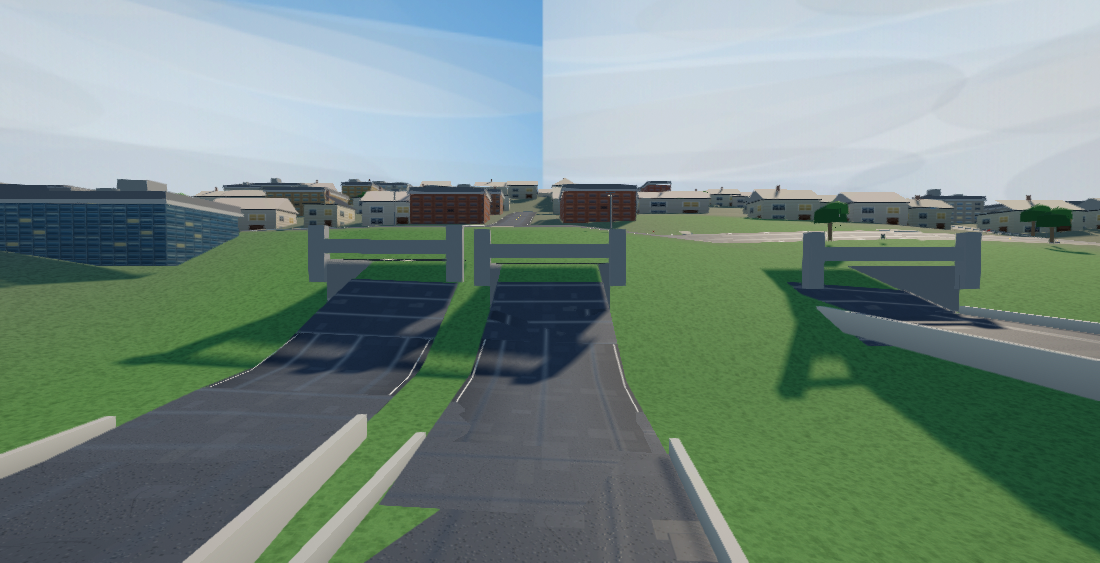
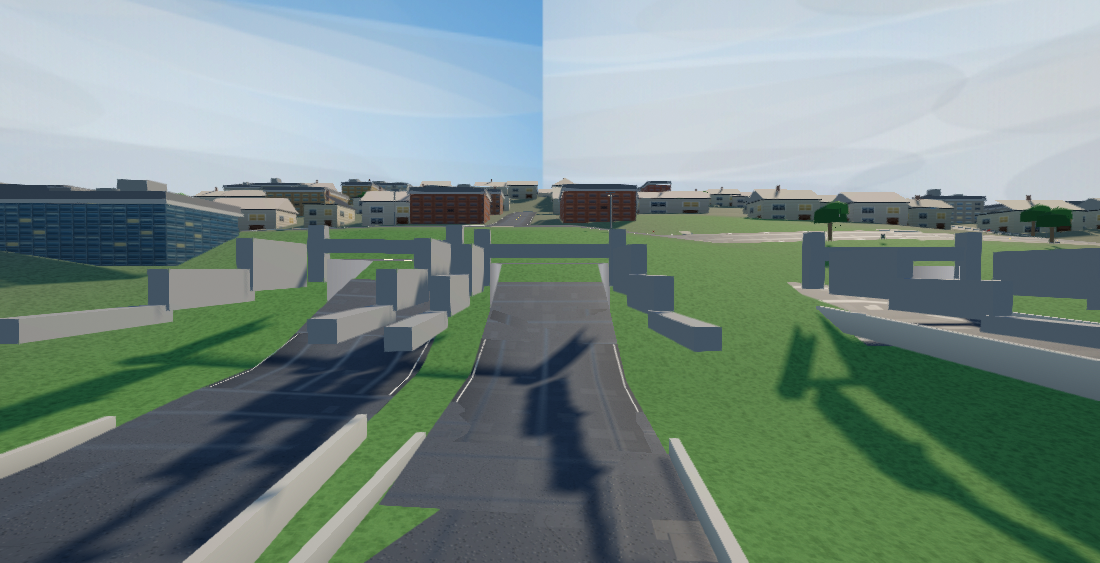
Auto v57: lit tunnels, manual-only graphics that stick, portrait badge, altitude haze
Four things, one release:

**The SR-99 interior was invisible.** Sun-lit materials inside a bore sit
in the shadow map's darkness and render near-black -- a glow line in a
void. The whole interior is now drawn in the unlit glow material with its
light baked into vertex colours: lamp pools every 18 m, walls lighter than
the ceiling, centreline dashes, the warm strip overhead. It owes the sun
nothing and reads identically at any depth. Portals grew approach trenches
-- tapering wing walls from the frame back along the cut -- so the mouth
reads as a cut into the hill rather than a doorway standing in a field.

**Graphics quality is manual only, and it persists.** The adaptive ladder
is deleted by request: it watched fps with no idea why a frame was slow,
demoted players after warps (the streaming burst is CPU a lower tier cannot
help), and overrode deliberate choices. The pause-menu picker is the single
authority, saved to localStorage and restored at boot.

**The portrait version badge ships this time.** PR #362 built it and was
never merged -- the merge list said otherwise and nobody could tell,
which is also why every auto PR title now carries its version (rule added
to CLAUDE.md): a title makes a missing bump or a stranded feature visible.

**Flying haze.** The streaming rings -- massing at 1.6 km, detail at 800 m
-- read as a crawling boundary from altitude, and no draw budget pushes
them past a 6 km sightline. Fog density now scales with height above
[…]

diff --git a/apps/auto/src/world.js b/apps/auto/src/world.js
@@ -948,35 +948,49 @@ export class World {
     const hw = e.hw;
     const px = -e.dz, pz = e.dx;
     const WALL = 5.4, DECK = 0.3;
-    const wallCol = [0.34, 0.35, 0.37];
-    const soffit = [0.24, 0.25, 0.27];
-    const kerbCol = [0.45, 0.46, 0.48];
     const ay = a.y + DECK, by = b.y + DECK;
     const P = (t, o) => [lerp(a.x, b.x, t) + px * o, lerp(a.z, b.z, t) + pz * o];
     const Y = (t) => lerp(ay, by, t);
-    // deck
-    const [a0x, a0z] = P(0, hw), [a1x, a1z] = P(0, -hw);
-    const [b0x, b0z] = P(1, hw), [b1x, b1z] = P(1, -hw);
-    const v1 = e.len / ROAD_TILE, u1 = (hw * 2) / ROAD_TILE;
-    road.quad([a0x, ay, a0z], [a1x, ay, a1z], [b1x, by, b1z], [b0x, by, b0z],
-      [0, 1, 0], [0, 0, u1, 0, u1, v1, 0, v1], [1, 1, 1]);
-    // walls: inner faces, lofted between the same corners
-    for (const sd of [1, -1]) {
-      const [w0x, w0z] = P(0, hw * sd), [w1x, w1z] = P(1, hw * sd);
-      flat.quad(
-        [w0x, Y(0), w0z], [w1x, Y(1), w1z],
-        [w1x, Y(1) + WALL, w1z], [w0x, Y(0) + WALL, w0z],
-        [-px * sd, 0, -pz * sd], ZERO_UV, wallCol);
-      // low kerb strip so the wall base reads in headlightless gloom
-      flat.quad(
-        [w0x, Y(0), w0z], [w1x, Y(1), w1z],
-        [w1x, Y(1) + 0.8, w1z], [w0x, Y(0) + 0.8, w0z],
-        [-px * sd, 0, -pz * sd], ZERO_UV, kerbCol);
+    // The INTERIOR is drawn ENTIRELY in the unlit glow material, with its
+    // light baked into vertex colours: bright pools under the lamps fading
+    // between them, walls lighter than the ceiling, a warm strip overhead.
+    // MeshBasicMaterial owes the sun nothing, so the bore reads the same at
+    // any depth, which is what a lit tunnel does.
+    const pool = (t) => 0.72 + 0.28 * Math.cos((lerp(0, e.len, t) / 18) * Math.PI * 2);
+    const seg = Math.max(2, Math.ceil(e.len / 9));
+    for (let i = 0; i < seg; i++) {
+      const t0 = i / seg, t1 = (i + 1) / seg;
+      const l0 = pool(t0), l1 = pool(t1);
+      const deckC0 = [0.34 * l0, 0.34 * l0, 0.36 * l0];
+      const deckC1 = [0.34 * l1, 0.34 * l1, 0.36 * l1];
+      const [a0x, a0z] = P(t0, hw), [a1x, a1z] = P(t0, -hw);
+      const [b0x, b0z] = P(t1, hw), [b1x, b1z] = P(t1, -hw);
+      glow.quad([a0x, Y(t0), a0z], [a1x, Y(t0), a1z], [b1x, Y(t1), b1z], [b0x, Y(t1), b0z],
+        [0, 1, 0], ZERO_UV, [deckC0, deckC0, deckC1, deckC1]);
+      // centreline dash, every other segment
+      if (i % 2 === 0) {
+        const [c0x, c0z] = P(t0, 0.10), [c1x, c1z] = P(t0 + (t1 - t0) * 0.55, 0.10);
+        const [d0x, d0z] = P(t0, -0.10), [d1x, d1z] = P(t0 + (t1 - t0) * 0.55, -0.10);
+        glow.quad([c0x, Y(t0) + 0.02, c0z], [d0x, Y(t0) + 0.02, d0z],
+          [d1x, Y(t1) + 0.02, d1z], [c1x, Y(t1) + 0.02, c1z],
+          [0, 1, 0], ZERO_UV, [0.85, 0.8, 0.55]);
+      }
+      for (const sd of [1, -1]) {
+        const [w0x, w0z] = P(t0, hw * sd), [w1x, w1z] = P(t1, hw * sd);
+        const wc0 = [0.42 * l0, 0.43 * l0, 0.45 * l0];
+        const wc1 = [0.42 * l1, 0.43 * l1, 0.45 * l1];
+        glow.quad(
+          [w0x, Y(t0), w0z], [w1x, Y(t1), w1z],
+          [w1x, Y(t1) + WALL, w1z], [w0x, Y(t0) + WALL, w0z],
+          [-px * sd, 0, -pz * sd], ZERO_UV, [wc0, wc1, wc1, wc0]);
+      }
+      const cc0 = [0.20 * l0, 0.20 * l0, 0.22 * l0];
+      const cc1 = [0.20 * l1, 0.20 * l1, 0.22 * l1];
+      glow.quad([a0x, Y(t0) + WALL, a0z], [b0x, Y(t1) + WALL, b0z],
+        [b1x, Y(t1) + WALL, b1z], [a1x, Y(t0) + WALL, a1z],
+        [0, -1, 0], ZERO_UV, [cc0, cc1, cc1, cc0]);
     }
-    // ceiling
-    flat.quad([a0x, ay + WALL, a0z], [b0x, by + WALL, b0z], [b1x, by + WALL, b1z], [a1x, ay + WALL, a1z],
-      [0, -1, 0], ZERO_UV, soffit);
-    // lamp strip down the centre, in the glow material so it self-illuminates
+    // lamp strip down the centre
     const g0 = P(0, 0), g1 = P(1, 0);
     glow.quad(
       [g0[0] - px * 0.5, Y(0) + WALL - 0.06, g0[1] - pz * 0.5],
@@ -984,17 +998,29 @@ export class World {
       [g1[0] + px * 0.5, Y(1) + WALL - 0.06, g1[1] + pz * 0.5],
       [g1[0] - px * 0.5, Y(1) + WALL - 0.06, g1[1] - pz * 0.5],
       [0, -1, 0], ZERO_UV, [1, 0.95, 0.8]);
-    // portal frame wherever an end node meets the surface network
+
+    // Portal treatment where an end meets the surface: an APPROACH TRENCH,
+    // not just a floating frame. Wing walls run from the frame back along the
+    // cut at grade height, so the mouth reads as a cut into the hill instead
+    // of a doorway standing in a field.
     for (const [nd, t] of [[this.city.nodes[e.a], 0], [this.city.nodes[e.b], 1]]) {
       if (!nd.e.some((ei2) => !this.city.edges[ei2].tunnel)) continue;
-      const dir = t === 0 ? 1 : -1;
       const [cx, cz] = P(t, 0);
       const yb = t === 0 ? ay : by;
-      // header beam + cheeks, slightly wider than the bore
-      flat.box(cx, yb + WALL + 0.6, cz, hw * 2 + 3.2, 1.6, 1.4, Math.atan2(e.dx, e.dz), [0.4, 0.41, 0.43]);
+      const rot = Math.atan2(e.dx, e.dz);
+      const conc = [0.42, 0.43, 0.45];
+      flat.box(cx, yb + WALL + 0.6, cz, hw * 2 + 3.6, 1.6, 1.5, rot, conc);
       for (const sd of [1, -1]) {
         flat.box(cx + px * (hw + 0.9) * sd, yb + WALL / 2, cz + pz * (hw + 0.9) * sd,
-          1.8, WALL + 1.2, 1.4, Math.atan2(e.dx, e.dz), [0.4, 0.41, 0.43]);
+          1.8, WALL + 1.2, 1.5, rot, conc);
+        // wing wall tapering back along the approach
+        const inward = t === 0 ? 1 : -1;
+        for (let k = 1; k <= 3; k++) {
+          const wx = cx - e.dx * inward * k * 9, wz = cz - e.dz * inward * k * 9;
+          const hgt = Math.max(1.2, (WALL + 1.0) * (1 - k * 0.28));
+          flat.box(wx + px * (hw + 0.7) * sd, yb + hgt / 2, wz + pz * (hw + 0.7) * sd,
+            1.4, hgt, 9.6, rot, conc);
+        }
       }
     }
   }

diff --git a/apps/auto/src/main.js b/apps/auto/src/main.js
@@ -215,7 +215,7 @@ let pickups = [];
 const LOOK_AHEAD = new THREE.Vector3();
 let last = 0;
 let accumFps = 0, frames = 0, fps = 60;
-let streamBehind = 0;
+let baseFogDensity = 0.00026;
 let startedAt = 0;
 
 async function boot() {
@@ -332,6 +332,7 @@ function installHeightFog() {
   // them, and the fog is tinted slightly cooler than the horizon so towers
   // still read against it.
   scene.fog = new THREE.FogExp2(0xb9c3cf, 0.00026);
+  baseFogDensity = scene.fog.density;
   installHeightFog();
   camera = new THREE.PerspectiveCamera(62, viewW() / viewH(), 0.5, 9000);
 
@@ -500,7 +501,10 @@ function installHeightFog() {
   // of 57 at `high`. `autoQuality` is still watching, so a device that cannot
   // hold it steps down on its own rather than everyone being pre-emptively
   // demoted.
-  applyQuality('high', false);
+  let savedQ = null;
+  try { savedQ = localStorage.getItem('auto-quality'); } catch (e) { /* private mode */ }
+  // literal, not TIERS: that const lives further down and this runs at boot
+  applyQuality(['high', 'medium', 'low'].includes(savedQ) ? savedQ : 'high', !!savedQ);
   startedAt = performance.now();
   loading.classList.add('hide');
   setTimeout(() => loading.remove(), 700);
@@ -1018,7 +1022,17 @@ function frame(now) {
     marker.material.opacity = 0.22 + Math.sin(now * 0.004) * 0.1;
   }
 
-  streamBehind = world.update(p.x, p.z, fps < 45 ? 1 : 2);
+  world.update(p.x, p.z, fps < 45 ? 1 : 2);
+  // Atmospheric haze thickens with altitude. From 300 m up the streaming
+  // rings are visible as a crawling boundary -- massing at 1.6 km, detail at
+  // 800 m -- and no draw budget pushes them past a 6 km sightline. Real air
+  // does the job instead: by ~250 m up the density has doubled, so chunks
+  // arrive inside the haze the way a distant city fades in from a real
+  // light aircraft. On the ground this is exactly the old constant.
+  if (scene.fog) {
+    const alt = Math.max(0, p.y - G.terrainHeight(p.x, p.z));
+    scene.fog.density = baseFogDensity * (1 + Math.min(2.2, alt / 220));
+  }
 
   player.applyCamera(camera);
   // Aim the shadow box down the view, not at the player's feet. Centred on the
@@ -1050,7 +1064,7 @@ function frame(now) {
   hud.update(dt, game, player, traffic);
   world.animate(dt, now / 1000);
   draw(now);
-  autoQuality(dt);
+
   updateDebug(dt);
 }
 
@@ -1108,39 +1122,18 @@ let tierIdx = 0;
 let slowFor = 0;
 let qualityLocked = false;
 
-let fastFor = 0;
-function autoQuality(dt) {
-  if (qualityLocked) return;
-  if (performance.now() - startedAt < 4000) return;
-  if (window.__noAutoQuality) return;
-  // A warp or respawn leaves the streamer dozens of chunks behind, and the
-  // rebuild burst is CPU, not rendering: stepping the tier down cannot help
-  // it, and it used to fire here and then stick (the ladder only went down).
-  // While the streamer is catching up, the frame rate says nothing about the
-  // device, so the meter is held at zero.
-  if (streamBehind > 6) { slowFor = 0; fastFor = 0; return; }
-  slowFor = fps < 45 ? slowFor + dt : 0;
-  // 2.5 s at under 40 fps is a long time to be stuttering before anything
-  // happens, and 40 is already well into "feels wrong" -- by the time it fired
-  // the player had formed an opinion.
-  if (slowFor > 1.2 && tierIdx < TIERS.length - 1) {
-    slowFor = 0; fastFor = 0;
-    applyQuality(TIERS[++tierIdx], false);
-    hud.showToast(`Graphics: ${TIERS[tierIdx]}`);
-  }
-  // ...and the ladder climbs back. A tier drop caused by a transient -- the
-  // post-warp burst before the guard above existed, a thermal dip -- was a
-  // life sentence. Twelve seconds sustained over 57 fps is not a transient.
-  fastFor = fps > 57 ? fastFor + dt : 0;
-  if (fastFor > 12 && tierIdx > 0) {
-    fastFor = 0; slowFor = 0;
-    applyQuality(TIERS[--tierIdx], false);
-    hud.showToast(`Graphics: ${TIERS[tierIdx]}`);
-  }
-}
+// The adaptive quality ladder is GONE, by request. It watched fps with no
+// idea why a frame was slow, demoted people after warps, and even with a
+// streaming guard and a recovery rung it kept overriding a choice the player
+// had made on purpose. The picker in the pause menu is now the only
+// authority, and the choice persists in localStorage.
+function autoQuality() {}
 
 function applyQuality(q, manual) {
-  if (manual) qualityLocked = true;
+  if (manual) {
+    qualityLocked = true;
+    try { localStorage.setItem('auto-quality', q); } catch (e) { /* private mode */ }
+  }
   // Keep the ladder position in step whether the change was manual or not --
   // starting a phone on `medium` with tierIdx still at 0 made the first
   // automatic step down re-apply medium and waste a rung.

diff --git a/apps/auto/CLAUDE.md b/apps/auto/CLAUDE.md
@@ -633,11 +633,22 @@ Physically-shaded, image-based-lit, tone-mapped, with a hand-rolled post chain.
   Cells carry 8 px of wrap-padding — the cell's own opposite edge — so bilinear
   and the first three mips filter as if the tile repeated rather than pulling in
   the neighbouring family.
-- **Adaptive quality.** The phone this ships to can't be profiled from here, so
-  the game measures its own frame rate and steps `high -> medium -> low`
-  (post off, then pixel ratio down). `applyQuality(q, true)` locks it manually.
-  When testing headlessly, set `window.__noAutoQuality = true` **before boot** or
-  SwiftShader's ~5 fps immediately drops the tier and every screenshot lies.
+- **Quality is MANUAL ONLY, and it persists.** The adaptive ladder is gone,
+  by explicit request: it watched fps with no idea why a frame was slow,
+  demoted players after warps (the post-teleport streaming burst is CPU that
+  a lower tier cannot help), and kept overriding a deliberate choice. The
+  pause-menu picker is the single authority; the choice is saved to
+  localStorage ('auto-quality') and restored at boot.
+- **Tunnel interiors are drawn UNLIT** (the glow material), light baked into
+  vertex colours: lamp pools every 18 m, walls lighter than the ceiling, a
+  warm strip overhead. Sun-lit materials inside a bore sit in the shadow
+  map's darkness and render near-black -- "you can't see anything" -- so the
+  interior owes the sun nothing and reads the same at any depth.
+- **Haze thickens with altitude** (fog density up to 3.2x by ~480 m). The
+  streaming rings -- massing at 1.6 km, detail at 800 m -- are a crawling
+  boundary from a plane, and no draw budget pushes them past a 6 km
+  sightline; atmosphere hides them honestly. If more is ever needed, the
+  answer is a static supertile impostor layer, not wider rings.
 
 ## Judging how it looks
 
@@ -1145,6 +1156,14 @@ cache bumps, and URL-based `cache: 'no-cache'` revalidation (WebKit refuses to
 `fetch()` a navigation-mode Request). **Bump `CACHE` in sw.js on any deploy that
 must invalidate immediately.** Never add `vendor/` or `src/` to `SHELL`: a slow
 install is what pins iOS players to a stale worker forever.
+
+## Pull requests
+
+**Every auto PR title carries the version it ships**, e.g. "Auto v57: ...".
+The version is the one fact a bug report always needs and the one thing a
+merge list otherwise hides -- and this repo has already shipped two releases
+whose version bumps silently did not happen (a sed with no match exits 0).
+The title makes a missing bump visible at review time.
 
 ## Build number
 
